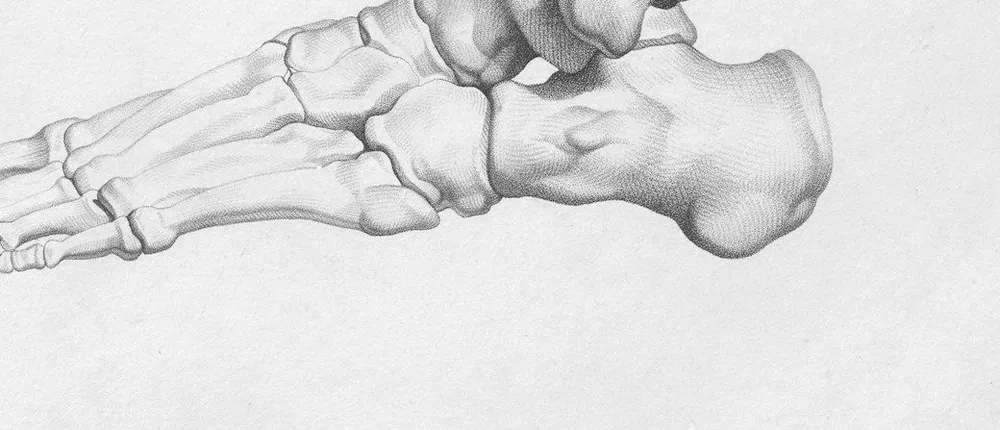
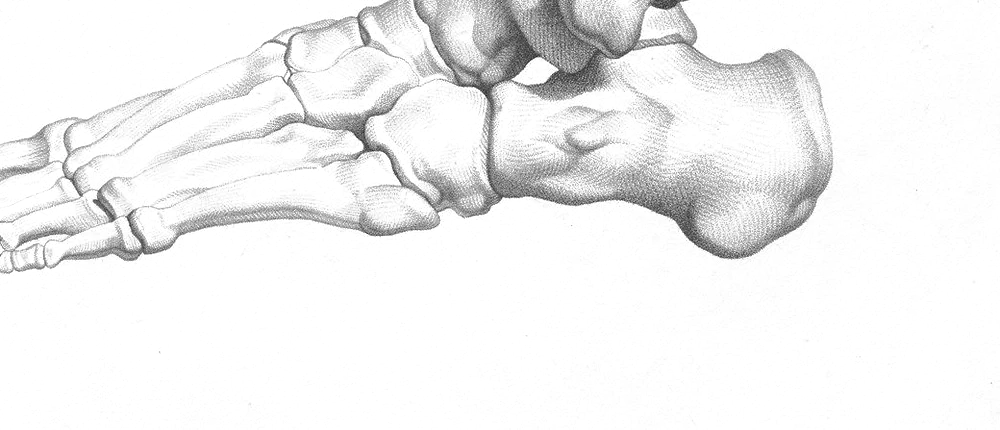
fix(conditions): natural-graphite anatomy + slimmer booking
Per feedback the gold tint and big booking blocks were too much:
- RegionAnatomy: dropped the gold tint back to the natural graphite, knocked the
  cream paper out to transparent (no more tinted rectangle), shrank the plate and
  softened it (opacity 90).
- Removed the bulky mobile bottom-bar "Book an assessment" strip.
- Slimmed the Management-tab inline booking card to a quiet text link.

diff --git a/components/ConditionPageClient.tsx b/components/ConditionPageClient.tsx
@@ -1844,20 +1844,15 @@ export default function ConditionPageClient({
                             </div>
                           )}
 
-                          {/* Contextual booking prompt at the end of the Management content */}
+                          {/* Quiet contextual booking link at the end of the Management content */}
                           <a
                             href={JANE_BOOKING_URL}
                             target="_blank"
                             rel="noopener noreferrer"
-                            className="group flex flex-col gap-4 rounded-2xl border border-[#B08D57]/30 bg-[#B08D57]/[0.06] px-6 py-5 transition-colors hover:bg-[#B08D57]/[0.1] focus-visible:outline-none focus-visible:ring-2 focus-visible:ring-[#B08D57] focus-visible:ring-offset-2 sm:flex-row sm:items-center sm:justify-between"
+                            className="group inline-flex items-center gap-1.5 text-sm font-medium text-[#8A6F0A] hover:text-[#B08D57] transition-colors focus-visible:outline-none focus-visible:ring-2 focus-visible:ring-[#B08D57]/40 focus-visible:ring-offset-2 rounded"
                           >
-                            <span className="text-base font-semibold text-slate-900">
-                              Book an assessment for {condition.name.toLowerCase()}
-                            </span>
-                            <span className="inline-flex flex-none items-center gap-2 self-start rounded-full bg-[#B08D57] px-5 py-2.5 text-sm font-semibold text-white shadow-sm transition-colors group-hover:bg-[#997A4B] sm:self-auto">
-                              Book
-                              <ArrowRightIcon className="h-4 w-4" aria-hidden="true" />
-                            </span>
+                            Book an assessment for {condition.name.toLowerCase()}
+                            <ArrowRightIcon className="h-4 w-4 transition-transform group-hover:translate-x-0.5" aria-hidden="true" />
                           </a>
                         </div>
                       )}</div>
@@ -1947,16 +1942,6 @@ export default function ConditionPageClient({
           drawer-based "Sections" button was removed: it duplicated what the
           four tabs + these sticky chips already surface. */}
       <div className="lg:hidden fixed bottom-0 left-0 right-0 z-40 pb-safe bg-white/95 backdrop-blur-md border-t border-gray-200 shadow-2xl">
-        {/* Primary booking action for mobile condition-page visitors */}
-        <a
-          href={JANE_BOOKING_URL}
-          target="_blank"
-          rel="noopener noreferrer"
-          className="flex items-center justify-center gap-2 bg-[#B08D57] py-3 text-sm font-semibold text-white transition-colors hover:bg-[#997A4B] focus-visible:outline-none focus-visible:ring-2 focus-visible:ring-inset focus-visible:ring-white/70"
-        >
-          Book an assessment
-          <ArrowRightIcon className="h-4 w-4" aria-hidden="true" />
-        </a>
         {subSectionChips.length > 1 && (
           <nav
             aria-label={`Sub-sections within ${activeTabLabel}`}

diff --git a/components/conditions/RegionAnatomy.tsx b/components/conditions/RegionAnatomy.tsx
@@ -17,9 +17,6 @@ import Image from 'next/image';
  * Categories without a plate render nothing.
  */
 
-const GOLD_TINT =
-  'sepia(0.82) saturate(1.62) hue-rotate(-12deg) brightness(1.05) contrast(0.97)';
-
 const EDGE_FADE =
   'linear-gradient(to bottom, transparent 0%, #000 9%, #000 91%, transparent 100%)';
 
@@ -30,7 +27,7 @@ interface Plate {
   widthClass: string;
 }
 
-const PORTRAIT = 'w-[210px] xl:w-[250px]';
+const PORTRAIT = 'w-[150px] xl:w-[180px]';
 
 const PLATE_BY_CATEGORY: Record<string, Plate> = {
   knee: { src: '/images/anatomy/anatomy-knee.webp', width: 860, height: 1131, widthClass: PORTRAIT },
@@ -39,7 +36,7 @@ const PLATE_BY_CATEGORY: Record<string, Plate> = {
   shoulder: { src: '/images/anatomy/anatomy-shoulder.webp', width: 860, height: 1256, widthClass: PORTRAIT },
   'elbow-wrist-hand': { src: '/images/anatomy/anatomy-elbow.webp', width: 820, height: 1427, widthClass: PORTRAIT },
   // Foot is a lateral (landscape) plate -> render wider so it has presence.
-  'foot-ankle': { src: '/images/anatomy/anatomy-foot.webp', width: 1000, height: 430, widthClass: 'w-[280px] xl:w-[330px]' },
+  'foot-ankle': { src: '/images/anatomy/anatomy-foot.webp', width: 1000, height: 430, widthClass: 'w-[200px] xl:w-[235px]' },
 };
 
 export default function RegionAnatomy({
@@ -64,9 +61,8 @@ export default function RegionAnatomy({
         alt=""
         sizes="330px"
         loading="lazy"
-        className="w-full h-auto mix-blend-multiply"
+        className="w-full h-auto opacity-90"
         style={{
-          filter: GOLD_TINT,
           maskImage: EDGE_FADE,
           WebkitMaskImage: EDGE_FADE,
         }}
